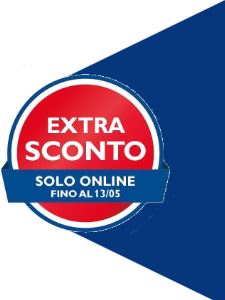
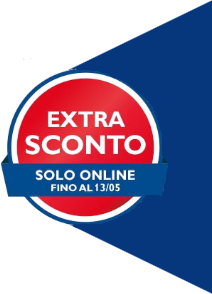
-

diff --git a/index.html b/index.html
@@ -17,6 +17,7 @@
     <!-- website Javascript -->
     <script src="http://guidoantoniomatteo.altervista.org/tim/js/menu.js"></script>
     <script src="http://guidoantoniomatteo.altervista.org/tim/js/template.js"></script>
+    <script src="http://guidoantoniomatteo.altervista.org/tim/js/standardimport.js"></script>
 
     <!-- website CSS -->
     <link rel="stylesheet" type="text/css" href="http://guidoantoniomatteo.altervista.org/tim/css/menu.css">
@@ -50,6 +51,75 @@
             }
             document.getElementById("piani").innerHTML = out;
         }
+
+        var offerteSL = new XMLHttpRequest();
+        var smartlife = "http://guidoantoniomatteo.altervista.org/components/offerte/getOfferteSL.php?id=" + 99;
+        offerteSL.onreadystatechange = function () {
+        if (offerteSL.readyState == 4 && offerteSL.status == 200)
+            getOfferteSL(offerteSL.responseText);
+        }
+        offerteSL.open("GET", smartlife, true);
+        offerteSL.send();
+
+
+        function getOfferteSL(response) {
+        var arr = JSON.parse(response);
+        var i;
+
+        var out = "";
+        for(i = 0; i < arr.length; i++)
+        {
+            out+= '<div class="col-md-5 no-padding-right-left resize"><img src="http://guidoantoniomatteo.altervista.org/tim/img/smart-life/single-SL/' + arr[i].id + '/home.png"></div><a href="http://guidoantoniomatteo.altervista.org/tim/smart-life/single-smart-life.html?id=' + arr[i].id + '"><div class="col-md-7 background-blu promotionSL center-block"><div class="row"><div class="promotionboxSLsmall1"><h2 class="description-gray text-bold">Scegli</h2><h1 class="description-blu text-bold">' + arr[i].nome + '</h1><h3 class=" description text-center">' + decodeHTMLEntities(arr[i].descrizioneshort) + '</h3></div><div class="promotionboxSLsmall2 resize"><img class="img-responsive child-center arrowpromotion" src="http://guidoantoniomatteo.altervista.org/tim/img/offerte/next.png" alt="freccia tim"><p class="description description-red">Per saperne di più</p></div></div></div></a>';
+        }
+        document.getElementById("smart-life").innerHTML = out;
+        }
+
+
+        var consigliato = new XMLHttpRequest();
+        var consigliatoresponse = "http://guidoantoniomatteo.altervista.org/components/offerte/getOffertePiani.php?id=" + -1;
+        consigliato.onreadystatechange = function () {
+        if (consigliato.readyState == 4 && consigliato.status == 200)
+            getOfferteConsigliato(consigliato.responseText);
+        }
+        consigliato.open("GET", consigliatoresponse, true);
+        consigliato.send();
+
+        function getOfferteConsigliato(response) {
+            var arr = JSON.parse(response);
+            var i;
+            var out = "";
+            for(i = 0; i < arr.length; i++)  {
+
+                out+= '<a href="http://guidoantoniomatteo.altervista.org/tim/piani/piano.html?id='+ arr[i].id +'"><div class="col-md-7 background-blu promotionSL center-block"><div class="row"><div class="promotionboxSLsmall1"><h2 class="description-gray text-bold">Scegli</h2><h1 class="description-blu text-bold">' + arr[i].nome + '</h1><h3 class=" description text-center">' + decodeHTMLEntities(arr[i].descrizionepiano) + '</h3><h2 class="description-red text-bold">' + arr[i].prezzo + '</h2></div><div class="promotionboxSLsmall2 resize"><img class="img-responsive child-center arrowpromotion" src="http://guidoantoniomatteo.altervista.org/tim/img/offerte/next.png" alt="freccia tim"><p class="description description-red">Per saperne di più</p></div></div></div></a>';
+            }
+            if(arr.length == 0){
+
+                out+='<div class="col-md-11 child-center"><h2 class="description description-red text-center">Al momento non sono presenti offerte <br>per questa categoria di piani</h1></div>';
+            }
+            document.getElementById("pianoconsigliato").innerHTML = out;
+        }
+
+        var offerteDispositivi = new XMLHttpRequest();
+        var dispositivi = "http://guidoantoniomatteo.altervista.org/components/offerte/getOfferteDispositivi.php?id=" + -1;
+        offerteDispositivi.onreadystatechange = function () {
+        if (offerteDispositivi.readyState == 4 && offerteDispositivi.status == 200)
+            getOfferteDispositivi(offerteDispositivi.responseText);
+        }
+        offerteDispositivi.open("GET", dispositivi, true);
+        offerteDispositivi.send();
+
+        function getOfferteDispositivi(response) {
+        var arr = JSON.parse(response);
+        var i;
+        var out = "";
+        for(i = 0; i < arr.length; i++)
+        {
+            out+= '<div class="col-md-3 nomarginfull promotiontile"><a href="http://guidoantoniomatteo.altervista.org/tim/device/singolodevice.html?id='+ arr[i].dispositivo +'"><img class="img-responsive devicesize center-block" src="' + arr[i].path + '" alt="' + arr[i].nome +'"><h2 class="nomargintop">' + arr[i].nome + '</h2><h1 class="nomargintop description-red">' + arr[i].prezzoscontato + '</h1></a></div>';
+        }
+        document.getElementById("dispositiviconsigliato").innerHTML = out;
+        }
+
+
     </script>
 </head>
 
@@ -124,15 +194,39 @@
                     </div>
                 </div>
             </div>
+                <div class="row" style="height: 20px;"></div>
                 <div class="row">
-                    <div class="col-md-2 resize background-blu">
-                        <img class="img-responsive img100" src="http://guidoantoniomatteo.altervista.org/tim/img/home/homesconto.jpg" alt="italia tim">
+                    <div class="col-md-2 resize no-padding-right-left ">
+                        <img class="img-responsive img100 promotion-image" src="http://guidoantoniomatteo.altervista.org/tim/img/home/homesconto.png" alt="italia tim">
                     </div>
                     <div class="col-md-10 text-center background-blu promotion-image promotion-row">
-                        <div id="piani">
+                        <div class="row" id="piani">
                         </div>
                     </div>
                 </div>
+                <div class="row" style="height: 20px;"></div>
+                <div class="row background-blu">
+                    <div id="smart-life">
+                    </div>
+                </div>
+                <div class="row" style="height: 20px;"></div>
+                <div class="row background-blu">
+                    <div class="col-md-5 no-padding-right-left resize">
+                        <img src="http://guidoantoniomatteo.altervista.org/tim/img/home/pianoconsigliato.png">
+                    </div>
+                    <div id="pianoconsigliato" class="row">
+                    </div>
+                </div>
+                <div class="row" style="height: 20px;"></div>
+                <div class="row promotion-row">
+                    <div class="col-md-12">
+                        <h2 class="description-blu">I dispositivi scelti per te</h2>
+                    </div>
+                    <div id="dispositiviconsigliato" class="row">
+                    </div>
+                    <div class="row" style="height: 20px;"></div>
+                </div>
+                <div class="row" style="height: 20px;"></div>
                 <div class="row background-blu">
                     <div class="col-md-4 resize">
                         <img class="img-responsive img100" src="http://guidoantoniomatteo.altervista.org/tim/img/home/italia.jpg" alt="italia tim">

diff --git a/css/guido.css b/css/guido.css
@@ -43,6 +43,11 @@ div.middle-align-block { /*used to vertically center all the contents in the foo
 
 @media only screen and (max-width: 1199px) 
 {
+    .promotion-image{
+
+        height: auto !important;
+    }
+
     .inner-presentation h1
     { 
         font-size: 31px;
@@ -60,6 +65,23 @@ div.middle-align-block { /*used to vertically center all the contents in the foo
 }
 @media only screen and (max-width: 991px) 
 {
+
+    .promotionboxSLsmall1{
+
+        position: absolute !important;
+        margin: 25px 25px !important;
+        border-radius: 25px !important;
+        background-color: #FFFFFF !important;
+        height: 250px !important;
+        width: 250px !important;
+        text-align: center !important;
+        font-size: 40px !important;
+        z-index: 5 !important;
+    }
+    .promotion-image{
+
+        height: auto !important;
+    }
 
     .promotionbox1{
 
@@ -318,6 +340,11 @@ div.middle-align-block { /*used to vertically center all the contents in the foo
     color: #004890;
 }
 
+.description-gray{
+
+    color: #CCCCCC !important;
+}
+
 .text-bold{
 
     font-weight: bold;
@@ -375,4 +402,57 @@ div.middle-align-block { /*used to vertically center all the contents in the foo
 
     background-color: white;
     border: solid 2px #004890;
+}
+
+.no-padding-right-left{
+
+    padding-left: 0px;
+    padding-right: 0px;
+}
+
+.promotionSL{
+
+    position: relative;
+    width: 300px;
+    height: 300px;
+}
+
+.promotionboxSL{
+
+    position: absolute;
+    margin: 25px 25px;
+    border-radius: 25px;
+    background-color: #FFFFFF;
+    height: 250px;
+    width: 615px;
+    text-align: center;
+    font-size: 40px;
+    z-index: 5;
+}
+
+.promotionboxSLsmall1{
+
+    position: absolute;
+    margin: 25px 25px;
+    border-radius: 25px;
+    background-color: #FFFFFF;
+    height: 250px;
+    width: 400px;
+    text-align: center;
+    font-size: 40px;
+    z-index: 5;
+}
+
+.promotionboxSLsmall2{
+
+    position: absolute;
+    margin: 25px 380px;
+    border-radius: 25px;
+    background-color: #FFFFFF;
+    padding-top: 80px;
+    height: 250px;
+    width: 200px;
+    text-align: center;
+    font-size: 40px;
+    z-index: 5;
 }

diff --git a/components/offerte/getOffertePiani.php b/components/offerte/getOffertePiani.php
@@ -16,7 +16,9 @@
     if($id == 0){
 
         $result = $conn->query("SELECT nome, pianotariffario.descrizione AS descrizionepiano, pianotariffario.prezzoscontato AS prezzo, pianotariffario.attivazionesconto AS descrizioneattivazione FROM pianotariffario WHERE prezzoscontato IS NOT NULL LIMIT 2");
-    } else  {
+    } else if($id==-1) {
+        $result = $conn->query("SELECT id, categoria, nome, pianotariffario.descrizione AS descrizionepiano, pianotariffario.prezzoscontato AS prezzo, pianotariffario.attivazionesconto AS descrizioneattivazione FROM pianotariffario WHERE prezzoscontato IS NOT NULL AND categoria = 1 LIMIT 1");
+    } else {
         $result = $conn->query("SELECT id, categoria, nome, pianotariffario.descrizione AS descrizionepiano, pianotariffario.prezzoscontato AS prezzo, pianotariffario.attivazionesconto AS descrizioneattivazione FROM pianotariffario WHERE prezzoscontato IS NOT NULL AND categoria = $id");
     }
 

diff --git a/components/offerte/getOfferteSL.php b/components/offerte/getOfferteSL.php
@@ -16,6 +16,8 @@
     if($id == 0){
 
         $result = $conn->query("SELECT nome, prezzoscontato, attivazionescontato, id FROM smartlife WHERE prezzoscontato IS NOT NULL LIMIT 2");
+    } else if($id==99) {
+        $result = $conn->query("SELECT nome, descrizioneshort, prezzoscontato, attivazionescontato, id FROM smartlife WHERE prezzoscontato IS NOT NULL LIMIT 1");
     } else  {
         $result = $conn->query("SELECT nome, prezzoscontato, attivazionescontato, id FROM smartlife WHERE prezzoscontato IS NOT NULL");
     }
@@ -28,6 +30,7 @@
             $outp .= ",";
         $outp .= '{"nome":"'. $rs["nome"]. '",';
         $outp .= '"prezzoscontato":"'. $rs["prezzoscontato"]. '",';
+        $outp .= '"descrizioneshort":"'. htmlentities(utf8_encode($rs["descrizioneshort"]), 0, "UTF-8"). '",';
         $outp .= '"attivazionescontato":"'. $rs["attivazionescontato"]. '",';
         $outp .= '"id":"'. $rs["id"]. '"}';
     }

diff --git a/components/offerte/getOfferteDispositivi.php b/components/offerte/getOfferteDispositivi.php
@@ -16,6 +16,8 @@
     if($id == 0){
 
         $result = $conn->query("SELECT dispositivo.id AS dispositivo, nome, path, prezzoscontato FROM dispositivo, dispositivofoto WHERE prezzoscontato IS NOT NULL AND dispositivo.id = dispositivofoto.id_dispositivo GROUP BY dispositivo.id");
+    } else if(id==-1) {
+        $result = $conn->query("SELECT dispositivo.id AS dispositivo, nome, path, prezzoscontato FROM dispositivo, dispositivofoto WHERE prezzoscontato IS NOT NULL AND dispositivo.id = dispositivofoto.id_dispositivo GROUP BY dispositivo.id LIMIT 3");
     } else  {
         $result = $conn->query("SELECT dispositivo.id AS dispositivo, nome, path, prezzoscontato FROM dispositivo, dispositivofoto WHERE prezzoscontato IS NOT NULL AND dispositivo.id = dispositivofoto.id_dispositivo GROUP BY dispositivo.id LIMIT 2");
     }
